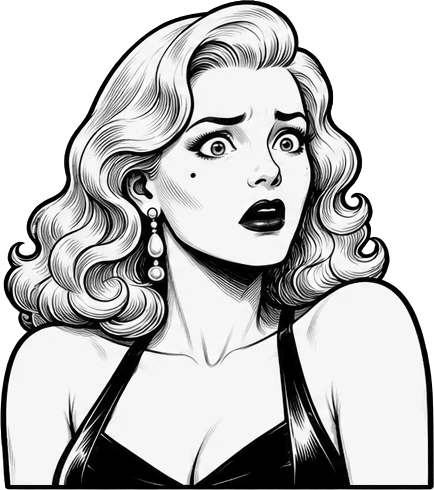
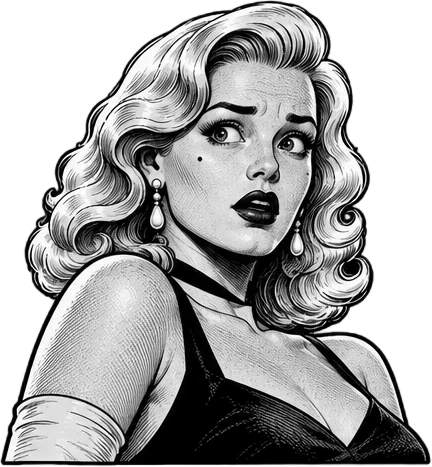
The Precinct: Vera's faces and things redrawn to match the cast

diff --git a/the-precinct/theme.js b/the-precinct/theme.js
@@ -492,10 +492,10 @@ export default {
     { who: 'Vera Sinclair', dir: 'vera', items: [
       ['standing', 'Standing', 29], ['side', 'Side on', 22], ['walking-away', 'Walking away', 27],
       ['hand-on-hip', 'Hand on hip', 34], ['whispering', 'Whispering', 29], ['coffee', 'With a coffee', 29],
-      ['face-glance', 'Sideways glance', 32, 'face'], ['face-knowing', 'Knowing smile', 33, 'face'], ['face-eyebrow', 'Raised eyebrow', 34, 'face'],
-      ['face-alarmed', 'Alarmed', 34, 'face'], ['face-sad', 'Sad', 36, 'face'], ['face-laughing', 'Laughing', 36, 'face'],
-      ['earrings', 'Pearl earrings', 15, 'thing'], ['gloves', 'Evening gloves', 19, 'thing'], ['stole', 'Fur stole', 23, 'thing'],
-      ['lipstick', 'Lipstick', 15, 'thing'], ['clutch', 'Clutch bag', 24, 'thing'], ['coffee-cup', 'Coffee cup', 22, 'thing'],
+      ['face-glance', 'Sideways glance', 33, 'face'], ['face-knowing', 'Knowing smile', 32, 'face'], ['face-eyebrow', 'Raised eyebrow', 33, 'face'],
+      ['face-alarmed', 'Alarmed', 34, 'face'], ['face-sad', 'Sad', 34, 'face'], ['face-laughing', 'Laughing', 34, 'face'],
+      ['earrings', 'Pearl earrings', 15, 'thing'], ['gloves', 'Evening gloves', 15, 'thing'], ['stole', 'Fur stole', 21, 'thing'],
+      ['lipstick', 'Lipstick', 16, 'thing'], ['clutch', 'Clutch bag', 23, 'thing'], ['coffee-cup', 'Coffee cup', 22, 'thing'],
     ] },
     { who: 'Hattie Cole', dir: 'hattie', items: [
       ['standing', 'Standing', 29], ['side', 'Side on', 27], ['walking-away', 'Walking away', 30],
